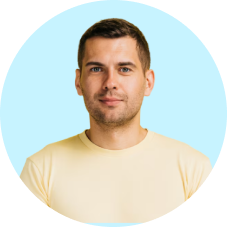
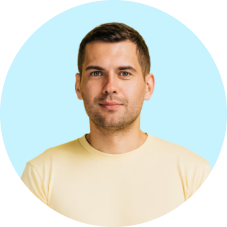
update hero images in careers page

diff --git a/components/HeroCareers.tsx b/components/HeroCareers.tsx
@@ -10,36 +10,40 @@ import SoftAurora from "@/components/backgrounds/SoftAurora";
 
 gsap.registerPlugin(useGSAP);
 
-/** Offsets from section center; clamp + vw/vh so faces clear copy on all widths */
+/**
+ * Offsets from section center (clamp + vw/vh).
+ * Left: one large top avatar, two smaller ones below side-by-side.
+ * Right: small top, large bottom.
+ */
 const FACE_SLOTS = [
   {
-    sizeClass: "w-[clamp(4rem,9vw,6.75rem)]",
+    sizeClass: "w-[clamp(5.25rem,11vw,8.5rem)]",
     transform:
-      "translate(calc(-50% + clamp(-380px, -30vw, -200px)), calc(-50% + clamp(-228px, -24vh, -155px)))",
+      "translate(calc(-50% + clamp(-480px, -41vw, -330px)), calc(-50% + clamp(-128px, -13vh, -72px)))",
     slotClass: "max-sm:hidden",
   },
   {
-    sizeClass: "w-[clamp(3.75rem,8.5vw,6.25rem)]",
+    sizeClass: "w-[clamp(8rem,9.5vw,7.25rem)]",
     transform:
-      "translate(calc(-50% + clamp(-340px, -28vw, -190px)), calc(-50% + clamp(145px, 22vh, 248px)))",
+      "translate(calc(-50% + clamp(-650px, -49vw, -380px)), calc(-50% + clamp(88px, 12vh, 158px)))",
     slotClass: "max-sm:hidden",
   },
   {
-    sizeClass: "w-[clamp(3rem,6.5vw,4.75rem)]",
+    sizeClass: "w-[clamp(4.5rem,9.5vw,7.25rem)]",
     transform:
-      "translate(calc(-50% + clamp(-420px, -36vw, -240px)), calc(-50% + clamp(-82px, -5vh, -32px)))",
+      "translate(calc(-50% + clamp(-420px, -36vw, -290px)), calc(-50% + clamp(48px, 7vh, 108px)))",
     slotClass: "max-sm:hidden",
   },
   {
-    sizeClass: "w-[clamp(4rem,9vw,6.75rem)]",
+    sizeClass: "w-[clamp(4.25rem,8.5vw,6.5rem)]",
     transform:
-      "translate(calc(-50% + clamp(200px, 30vw, 380px)), calc(-50% + clamp(-232px, -24vh, -150px)))",
+      "translate(calc(-50% + clamp(380px, 35vw, 460px)), calc(-50% + clamp(-158px, -15vh, -98px)))",
     slotClass: "max-sm:hidden",
   },
   {
-    sizeClass: "w-[clamp(4.5rem,9.5vw,7.5rem)]",
+    sizeClass: "w-[clamp(6.25rem,13.5vw,10.75rem)]",
     transform:
-      "translate(calc(-50% + clamp(140px, 24vw, 300px)), calc(-50% + clamp(118px, 17vh, 222px)))",
+      "translate(calc(-50% + clamp(360px, 32vw, 560px)), calc(-50% + clamp(60px, 14vh, 0px)))",
     slotClass: "",
   },
 ] as const;
@@ -84,11 +88,25 @@ function randDrift(magnitude: number) {
   };
 }
 
+function randRestingOffset() {
+  return {
+    x: gsap.utils.random(-34, 34),
+    y: gsap.utils.random(-24, 24),
+  };
+}
+
 function nextSwapDelay() {
   if (Math.random() < 0.65) {
-    return gsap.utils.random(0.9, 2.8);
+    return gsap.utils.random(2.2, 4.8);
   }
-  return gsap.utils.random(2.8, 5.2);
+  return gsap.utils.random(4.8, 8.5);
+}
+
+function nextHiddenDelay() {
+  if (Math.random() < 0.7) {
+    return gsap.utils.random(0.35, 1.1);
+  }
+  return gsap.utils.random(1.1, 2);
 }
 
 function WaveBackdrop() {
@@ -191,8 +209,8 @@ export default function HeroCareers() {
           autoAlpha: 0,
           x: outDrift.x,
           y: outDrift.y,
-          duration: 0.58,
-          ease: "back.in(1.32)",
+          duration: 0.88,
+          ease: "back.in(1.9)",
           overwrite: "auto",
           onComplete: safe(() => {
             setSlotFaces((prev) => {
@@ -203,7 +221,7 @@ export default function HeroCareers() {
             });
 
             const waitPaint = gsap.delayedCall(
-              0.05,
+              nextHiddenDelay(),
               safe(() => {
                 requestAnimationFrame(() => {
                   requestAnimationFrame(() => {
@@ -215,12 +233,12 @@ export default function HeroCareers() {
                     }
 
                     const fromDrift = randDrift(26);
-                    const toDrift = randDrift(12);
+                    const toDrift = randRestingOffset();
 
                     gsap.fromTo(
                       elIn,
                       {
-                        scale: 0,
+                        scale: 0.2,
                         autoAlpha: 0,
                         x: fromDrift.x,
                         y: fromDrift.y,
@@ -230,8 +248,8 @@ export default function HeroCareers() {
                         autoAlpha: 1,
                         x: toDrift.x,
                         y: toDrift.y,
-                        duration: 0.78,
-                        ease: "back.out(1.34)",
+                        duration: 1.12,
+                        ease: "back.out(2.75)",
                         overwrite: "auto",
                         onComplete: safe(() => {
                           slotBusyRef.current[slot] = false;
@@ -284,17 +302,17 @@ export default function HeroCareers() {
         gsap.to(faceElements, {
           scale: 1,
           autoAlpha: 1,
-          x: 0,
-          y: 0,
-          duration: 0.72,
-          ease: "back.out(1.38)",
-          stagger: { amount: 0.62, from: "random" },
+          x: () => randRestingOffset().x,
+          y: () => randRestingOffset().y,
+          duration: 1.05,
+          ease: "back.out(2.5)",
+          stagger: { amount: 0.95, from: "random" },
           overwrite: "auto",
           onComplete: safe(() => {
             for (let slot = 0; slot < FACE_COUNT; slot++) {
               const firstDelay =
-                gsap.utils.random(0.65, 2.1) +
-                slot * gsap.utils.random(0.08, 0.28);
+                gsap.utils.random(1.6, 4) +
+                slot * gsap.utils.random(0.15, 0.42);
               slotSwapTimersRef.current[slot]?.kill();
               slotSwapTimersRef.current[slot] = gsap.delayedCall(
                 firstDelay,
@@ -339,7 +357,7 @@ export default function HeroCareers() {
                   }}
                   className="h-full w-full will-change-transform"
                 >
-                  <div className="relative h-full w-full overflow-hidden rounded-full shadow-[0_10px_28px_rgba(1,31,39,0.1)]">
+                  <div className="relative h-full w-full overflow-hidden rounded-full">
                     <Image
                       key={faceIdx}
                       src={face.src}